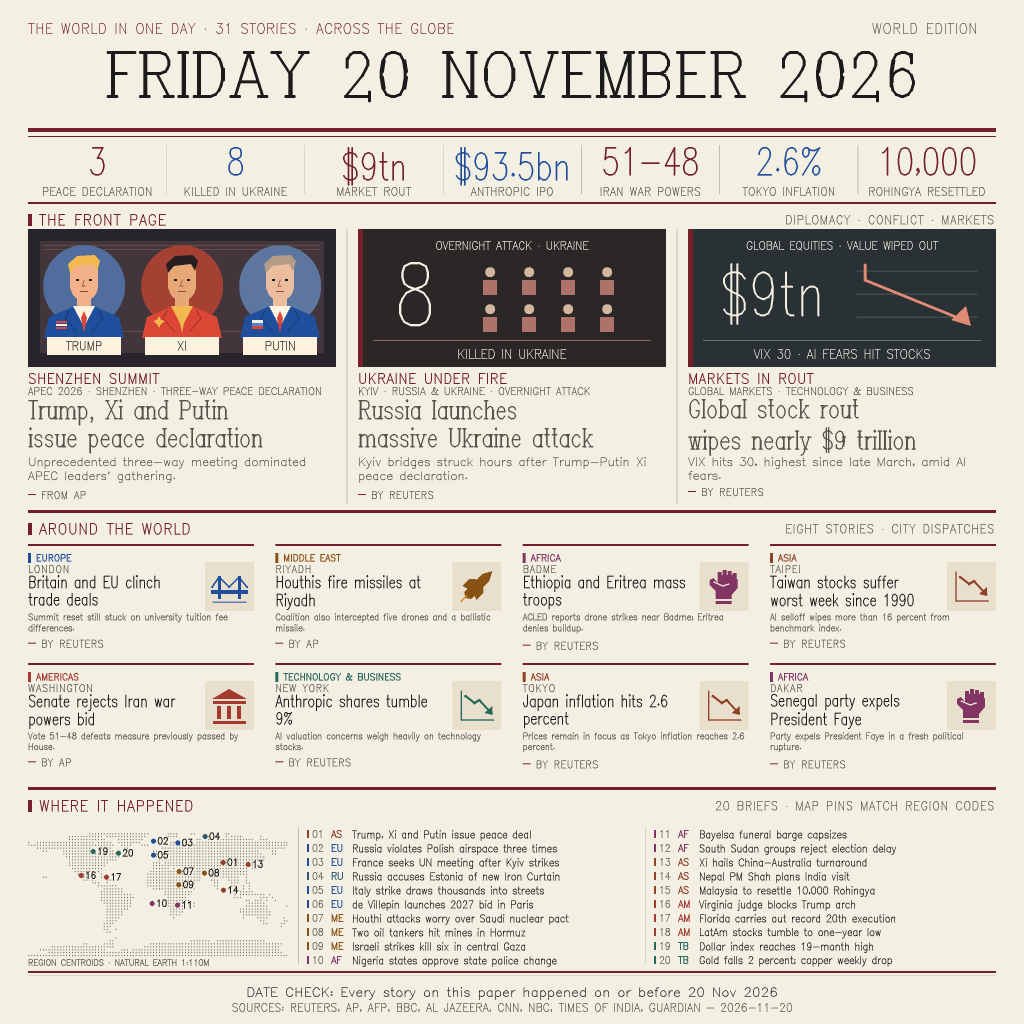
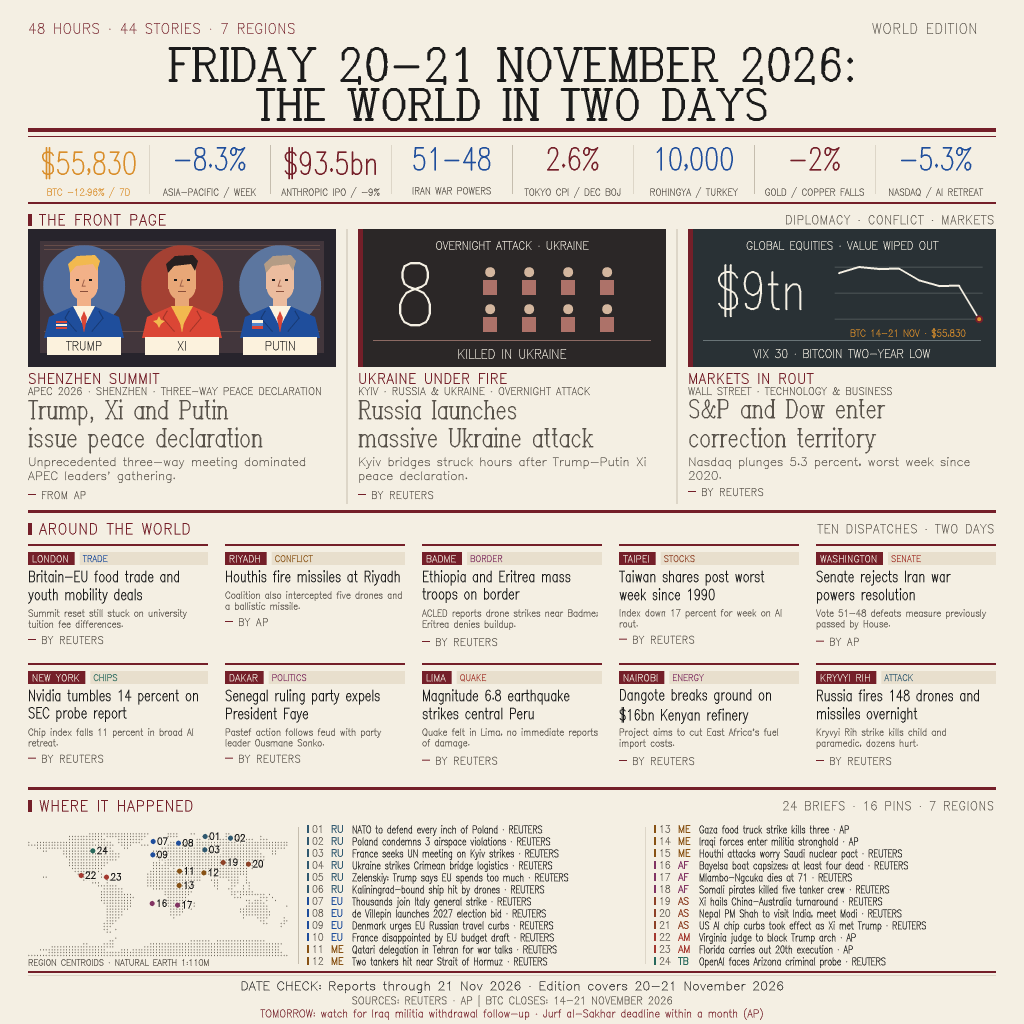
entry v5: 44 stories, two-day masthead, 10 city cards, 24-brief ticker, 16 pins, BTC 55,830 chart

diff --git a/main.py b/main.py
@@ -6,6 +6,7 @@ import json as reporting
 import math as geometry
 import os as filesystem
 import struct as binary
+import time as timing
 import zlib as deflate
 
 
@@ -330,40 +331,69 @@ DESKS = {
     'TECHNOLOGY & BUSINESS': ('TB', (39, 104, 91)),
 }
 
+# Editorial map: source IDs in news20_data_v2.json (all 69 accounted for).
+# HERO: 25 Shenzhen; 1 Ukraine casualties; 45 Wall Street correction.
+# HERO CHART: 38 global $9tn rout; 47 bitcoin two-year low (full BTC series).
+# CARDS: 7 London; 13 Riyadh; 20 Badme; 61 Taipei (updates 27);
+# 35 Washington; 46 New York; 21 Dakar; 66 Lima; 68 Nairobi; 51 Kryvyi Rih.
+# TICKER 01-24: 48,3,4,6,49,50,8,9,58,60,52,55,56,57,17,63,
+# 64,65,26,29,69,33,34,40. Each number also identifies its map pin.
+# STATS-ONLY reports: 28 Tokyo CPI; 30 Rohingya; 37 Anthropic IPO;
+# 39 Asia-Pacific weekly loss; 43 gold decline. Total distinct reports: 44.
+# OMITTED: 2 summit reaction; 5 Estonia; 10 Spain police; 11 bail;
+# 12 Danish plot (follow-up 58 used); 14 Iran deal (duplicate 67);
+# 15 Iraq (updated 57); 16 Gaza (newer 56 used); 18 Hormuz (newer 55);
+# 19 Bayelsa (updated 63); 22 state police; 23 Ebola; 24 election delay;
+# 27 Taiwan (updated 61); 31 caravan; 32 Guyana; 36 LatAm;
+# 41 GTA; 42 dollar; 44 data centers; 53 Hodeidah (covered by 13);
+# 54 F-16; 59 Paris investigation; 62 summit analysis; 67 Iran deal.
+# Source facts are supplied editorial data; headlines shortened for measured fit.
+BTC = (('2026-11-14', 64142.0), ('2026-11-15', 65226.99),
+       ('2026-11-16', 64869.97), ('2026-11-17', 64930.48),
+       ('2026-11-18', 62824.57), ('2026-11-19', 61773.0),
+       ('2026-11-20', 61879.53), ('2026-11-21', 55830.0))
+EXTRA_REPORTS = (28, 30, 37, 38, 39, 43, 47)
+
 # Records are field-delimited editorial copy, independent of layout commands.
 LEADS = '''SHENZHEN SUMMIT|APEC 2026 · SHENZHEN · THREE-WAY PEACE DECLARATION|Trump, Xi and Putin/issue peace declaration|Unprecedented three-way meeting dominated APEC leaders' gathering.|FROM AP
 UKRAINE UNDER FIRE|KYIV · RUSSIA & UKRAINE · OVERNIGHT ATTACK|Russia launches/massive Ukraine attack|Kyiv bridges struck hours after Trump-Putin Xi peace declaration.|BY REUTERS
-MARKETS IN ROUT|GLOBAL MARKETS · TECHNOLOGY & BUSINESS|Global stock rout/wipes nearly $9 trillion|VIX hits 30, highest since late March, amid AI fears.|BY REUTERS'''
+MARKETS IN ROUT|WALL STREET · TECHNOLOGY & BUSINESS|S&P and Dow enter/correction territory|Nasdaq plunges 5.3 percent, worst week since 2020.|BY REUTERS'''
 
-CITY_COPY = '''EUROPE|LONDON|bridge|Britain and EU clinch trade deals|Summit reset still stuck on university tuition fee differences.|BY REUTERS
-MIDDLE EAST|RIYADH|missile|Houthis fire missiles at Riyadh|Coalition also intercepted five drones and a ballistic missile.|BY AP
-AFRICA|BADME|fist|Ethiopia and Eritrea mass troops|ACLED reports drone strikes near Badme; Eritrea denies buildup.|BY REUTERS
-ASIA|TAIPEI|chart|Taiwan stocks suffer worst week since 1990|AI selloff wipes more than 16 percent from benchmark index.|BY REUTERS
-AMERICAS|WASHINGTON|court|Senate rejects Iran war powers bid|Vote 51-48 defeats measure previously passed by House.|BY AP
-TECHNOLOGY & BUSINESS|NEW YORK|chart|Anthropic shares tumble 9%|AI valuation concerns weigh heavily on technology stocks.|BY REUTERS
-ASIA|TOKYO|chart|Japan inflation hits 2.6 percent|Prices remain in focus as Tokyo inflation reaches 2.6 percent.|BY REUTERS
-AFRICA|DAKAR|fist|Senegal party expels President Faye|Party expels President Faye in a fresh political rupture.|BY REUTERS'''
+CITY_COPY = '''EUROPE|LONDON|TRADE|Britain-EU food trade and youth mobility deals|Summit reset still stuck on university tuition fee differences.|BY REUTERS
+MIDDLE EAST|RIYADH|CONFLICT|Houthis fire missiles at Riyadh|Coalition also intercepted five drones and a ballistic missile.|BY AP
+AFRICA|BADME|BORDER|Ethiopia and Eritrea mass troops on border|ACLED reports drone strikes near Badme; Eritrea denies buildup.|BY REUTERS
+ASIA|TAIPEI|STOCKS|Taiwan shares post worst week since 1990|Index down 17 percent for week on AI rout.|BY REUTERS
+AMERICAS|WASHINGTON|SENATE|Senate rejects Iran war powers resolution|Vote 51-48 defeats measure previously passed by House.|BY AP
+TECHNOLOGY & BUSINESS|NEW YORK|CHIPS|Nvidia tumbles 14 percent on SEC probe report|Chip index falls 11 percent in broad AI retreat.|BY REUTERS
+AFRICA|DAKAR|POLITICS|Senegal ruling party expels President Faye|Pastef action follows feud with party leader Ousmane Sonko.|BY REUTERS
+AMERICAS|LIMA|QUAKE|Magnitude 6.8 earthquake strikes central Peru|Quake felt in Lima, no immediate reports of damage.|BY REUTERS
+AFRICA|NAIROBI|ENERGY|Dangote breaks ground on $16bn Kenyan refinery|Project aims to cut East Africa's fuel import costs.|BY REUTERS
+RUSSIA & UKRAINE|KRYVYI RIH|ATTACK|Russia fires 148 drones and missiles overnight|Kryvyi Rih strike kills child and paramedic, dozens hurt.|BY REUTERS'''
 
-BRIEF_COPY = '''ASIA|Trump, Xi and Putin issue peace deal
-EUROPE|Russia violates Polish airspace three times
-EUROPE|France seeks UN meeting after Kyiv strikes
-RUSSIA & UKRAINE|Russia accuses Estonia of new Iron Curtain
-EUROPE|Italy strike draws thousands into streets
-EUROPE|de Villepin launches 2027 bid in Paris
-MIDDLE EAST|Houthi attacks worry over Saudi nuclear pact
-MIDDLE EAST|Two oil tankers hit mines in Hormuz
-MIDDLE EAST|Israeli strikes kill six in central Gaza
-AFRICA|Nigeria states approve state police change
-AFRICA|Bayelsa funeral barge capsizes
-AFRICA|South Sudan groups reject election delay
-ASIA|Xi hails China-Australia turnaround
-ASIA|Nepal PM Shah plans India visit
-ASIA|Malaysia to resettle 10,000 Rohingya
-AMERICAS|Virginia judge blocks Trump arch
-AMERICAS|Florida carries out record 20th execution
-AMERICAS|LatAm stocks tumble to one-year low
-TECHNOLOGY & BUSINESS|Dollar index reaches 19-month high
-TECHNOLOGY & BUSINESS|Gold falls 2 percent; copper weekly drop'''
+BRIEF_COPY = '''RUSSIA & UKRAINE|NATO to defend every inch of Poland|REUTERS
+RUSSIA & UKRAINE|Poland condemns 3 airspace violations|REUTERS
+RUSSIA & UKRAINE|France seeks UN meeting on Kyiv strikes|REUTERS
+RUSSIA & UKRAINE|Ukraine strikes Crimean bridge logistics|REUTERS
+RUSSIA & UKRAINE|Zelenskiy: Trump says EU spends too much|REUTERS
+RUSSIA & UKRAINE|Kaliningrad-bound ship hit by drones|REUTERS
+EUROPE|Thousands join Italy general strike|REUTERS
+EUROPE|de Villepin launches 2027 election bid|REUTERS
+EUROPE|Denmark urges EU Russian travel curbs|REUTERS
+EUROPE|France disappointed by EU budget draft|REUTERS
+MIDDLE EAST|Qatari delegation in Tehran for war talks|REUTERS
+MIDDLE EAST|Two tankers hit near Strait of Hormuz|REUTERS
+MIDDLE EAST|Gaza food truck strike kills three|AP
+MIDDLE EAST|Iraqi forces enter militia stronghold|AP
+MIDDLE EAST|Houthi attacks worry Saudi nuclear pact|REUTERS
+AFRICA|Bayelsa boat capsizes; at least four dead|REUTERS
+AFRICA|Mlambo-Ngcuka dies at 71|REUTERS
+AFRICA|Somali pirates killed five tanker crew|REUTERS
+ASIA|Xi hails China-Australia turnaround|REUTERS
+ASIA|Nepal PM Shah to visit India, meet Modi|REUTERS
+ASIA|US AI chip curbs took effect as Xi met Trump|REUTERS
+AMERICAS|Virginia judge to block Trump arch|AP
+AMERICAS|Florida carries out 20th execution|AP
+TECHNOLOGY & BUSINESS|OpenAI faces Arizona criminal probe|REUTERS'''
 
 
 def records(copy):
@@ -542,13 +572,19 @@ def equities_program(board):
     board.draw(('r', 0, 0, board.width, board.height, (41, 49, 53)),
                ('r', 0, 0, 5, board.height, 'red'),
                ('t', 'GLOBAL EQUITIES · VALUE WIPED OUT', 12, 12, board.width - 24, 8, 'paper'),
-               ('t', '$9tn', 12, 34, 144, 43, 'paper', dict(face='narrow', thickness=6)))
-    board.draw(*(('l', [(169, scan), (289, scan)], (78, 86, 88), 2)
-                 for scan in [42, 65, 88]))
-    board.draw(('l', [(177, 36), (177, 51), (278, 92)], (225, 138, 118), 6),
-               ('p', [(263, 91), (283, 97), (278, 77)], (225, 138, 118)),
+               ('t', '$9tn', 10, 35, 125, 37, 'paper', dict(face='narrow', thickness=6)))
+    values = [close for date, close in BTC]
+    low, high = min(values), max(values)
+    points = [(151 + i * 20, 38 + (high - value) / (high - low) * 52)
+              for i, value in enumerate(values)]
+    board.draw(*(('l', [(147, scan), (294, scan)], (78, 86, 88), 2)
+                 for scan in [38, 64, 90]))
+    board.draw(('l', points, 'paper', 4),
+               ('d', *points[values.index(low)], 4, 'red'),
+               ('d', *points[-1], 2, 'amber'),
+               ('t', 'BTC 14-21 NOV · $55,830', 140, 99, 160, 6.6, 'amber'),
                ('r', 15, 111, board.width - 30, 1, (105, 116, 119)),
-               ('t', 'VIX 30 · AI FEARS HIT STOCKS', 15, 120, board.width - 30, 9, 'paper'))
+               ('t', 'VIX 30 · BITCOIN TWO-YEAR LOW', 15, 120, board.width - 30, 8.3, 'paper'))
 
 
 def pictogram(board, subject, shade):
@@ -606,30 +642,35 @@ class Newspaper:
 
     def nameplate(self):
         t, s = self.type, self.scene
-        story_total = len(records(LEADS)) + len(records(CITY_COPY)) + len(records(BRIEF_COPY))
-        banner = f'THE WORLD IN ONE DAY · {story_total} STORIES · ACROSS THE GLOBE'
+        story_total = len(records(LEADS)) + len(records(CITY_COPY)) + len(records(BRIEF_COPY)) + len(EXTRA_REPORTS)
+        banner = f'48 HOURS · {story_total} STORIES · 7 REGIONS'
         t.put(banner, MARGIN, 23, 783, 10, 'red', spacing=.7)
         t.put('WORLD EDITION', 872, 23, 124, 10, spacing=.7)
-        t.put('FRIDAY 20 NOVEMBER 2026', MARGIN, 51, LIVE_WIDTH, 44, 'ink',
+        t.put('FRIDAY 20-21 NOVEMBER 2026:', MARGIN, 47, LIVE_WIDTH, 32, 'ink',
+              thickness=9, face='mast', spacing=1, align='center')
+        t.put('THE WORLD IN TWO DAYS', MARGIN, 88, LIVE_WIDTH, 30, 'ink',
               thickness=9, face='mast', spacing=1.5, align='center')
         for top, height in [(128, 4), (136, 1)]:
             s.box(MARGIN, top, LIVE_WIDTH, height, 'red')
-        metrics = records('''3|PEACE DECLARATION
-8|KILLED IN UKRAINE
-$9tn|MARKET ROUT
-$93.5bn|ANTHROPIC IPO
+        delta = (BTC[-1][1] / BTC[0][1] - 1) * 100
+        metrics = records(f'''$55,830|BTC {delta:+.2f}% / 7D
+-8.3%|ASIA-PACIFIC / WEEK
+$93.5bn|ANTHROPIC IPO / -9%
 51-48|IRAN WAR POWERS
-2.6%|TOKYO INFLATION
-10,000|ROHINGYA RESETTLED''')
+2.6%|TOKYO CPI / DEC BOJ
+10,000|ROHINGYA / TURKEY
+-2%|GOLD / COPPER FALLS
+-5.3%|NASDAQ / AI RETREAT''')
         cell_width = LIVE_WIDTH / len(metrics)
         for position, (figure, caption) in enumerate(metrics):
             left = MARGIN + position * cell_width
             if position != 0:
                 s.box(left, 145, .5, 49, 'rule')
-            t.put(figure, left + 4, 147, cell_width - 8, 27,
-                  'blue' if position % 2 else 'red', thickness=5,
+            t.put(figure, left + 4, 147, cell_width - 8, 22,
+                  'amber' if position == 0 else ('blue' if position % 2 else 'red'), thickness=5,
                   face='narrow', spacing=0, align='center')
-            t.put(caption, left + 4, 187, cell_width - 8, 8, spacing=.4, align='center')
+            t.put(caption, left + 4, 187, cell_width - 8, 6.5,
+                  'amber' if position == 0 else 'grey', spacing=.12, align='center')
         s.box(MARGIN, 202, LIVE_WIDTH, 2, 'red')
 
     def front_page(self):
@@ -661,32 +702,36 @@ $93.5bn|ANTHROPIC IPO
 
     def city_reports(self):
         self.scene.box(MARGIN, 510, LIVE_WIDTH, 3, 'red')
-        self.section('AROUND THE WORLD', 'EIGHT STORIES · CITY DISPATCHES', 523)
+        self.section('AROUND THE WORLD', 'TEN DISPATCHES · TWO DAYS', 523)
         for ordinal, fields in enumerate(records(CITY_COPY)):
-            desk, city, symbol, title, description, source = fields
-            row, column = divmod(ordinal, 4)
-            left = device(MARGIN + column * (226 + 64 / 3)) / ZOOM
+            desk, city, topic, title, description, source = fields
+            row, column = divmod(ordinal, 5)
+            width = 180
+            left = MARGIN + column * 197
             top = 544 + row * 119
             shade = DESKS[desk][1]
             first = len(self.scene.copy_bounds)
-            self.scene.box(left, top, 226, 2, 'red')
-            self.scene.box(left, top + 9, 3, 10, shade)
-            self.type.put(desk, left + 8, top + 10, 218, 6.7,
-                          shade, thickness=3, spacing=.25)
-            self.type.put(city, left, top + 21, 173, 7.2, spacing=.8)
-            pictogram(Artboard(self, (left + 177, top + 18), (49, 49)), symbol, shade)
-            headline_rows = self.type.paragraphs(title, 11.5, 164, 'narrow')
+            self.scene.box(left, top, width, 2, 'red')
+            city_width = self.type.extent(city, 6.8, 'tag', .3) + 10
+            self.scene.box(left, top + 8, city_width, 13, 'red')
+            self.type.put(city, left + 4, top + 11, city_width - 8, 6.8,
+                          'paper', thickness=2, spacing=.3)
+            self.scene.box(left + city_width + 5, top + 8,
+                           width - city_width - 5, 13, (232, 223, 205))
+            self.type.put(topic, left + city_width + 8, top + 11,
+                          width - city_width - 11, 6.2, shade, spacing=.15)
+            headline_rows = self.type.paragraphs(title, 10.5, width - 2, 'narrow')
             assert 1 <= len(headline_rows) <= 3
             for line_number, words in enumerate(headline_rows):
-                self.type.put(words, left, top + 31 + line_number * 18, 167, 11.5,
+                self.type.put(words, left, top + 26 + line_number * 18, width, 10.5,
                               'ink', thickness=3, face='narrow', spacing=0)
-            description_top = top + 31 + len(headline_rows) * 18 + 2
-            for line_number, words in enumerate(self.type.paragraphs(description, 6.3, 224, 'tag')):
+            description_top = top + 26 + len(headline_rows) * 18 + 3
+            for line_number, words in enumerate(self.type.paragraphs(description, 6.5, width - 2, 'tag')):
                 self.type.put(words, left, description_top + line_number * 11,
-                              226, 6.3, spacing=0)
-            self.type.credit(source, left, 226, top + 118)
+                              width, 6.5, spacing=0)
+            self.type.credit(source, left, width, top + 118)
             for words, (west, north, east, south) in self.scene.copy_bounds[first:]:
-                assert left <= west < east <= left + 226, words
+                assert left <= west < east <= left + width, words
                 assert top <= north < south <= top + 118, words
             self.scene.stories.append(title)
 
@@ -702,7 +747,7 @@ $93.5bn|ANTHROPIC IPO
                     self.scene.circle(left + (easting + .5) * spacing,
                                       top + (northing + .5) * spacing, .55, 'land')
         clusters = {}
-        for ordinal, (desk, headline) in enumerate(records(BRIEF_COPY), start=1):
+        for ordinal, (desk, headline, outlet) in enumerate(records(BRIEF_COPY), start=1):
             clusters.setdefault(desk, []).append(ordinal)
         anchors = {
             'ASIA': (195, 35, 220, 63), 'EUROPE': (125, 14, 150, 28),
@@ -716,6 +761,7 @@ $93.5bn|ANTHROPIC IPO
                 if rank < len(numbers):
                     ordered.append((desk, numbers[rank], rank))
         occupied = []
+        pinned_regions = set()
         for desk, ordinal, rank in ordered[:16]:
             west, north, east, south = anchors[desk]
             column, row = rank % 2, rank // 2
@@ -725,6 +771,7 @@ $93.5bn|ANTHROPIC IPO
             py = top + north + row * (south - north) + column * 2 + vertical_jitter
             assert all(geometry.hypot(px - u, py - v) >= 12 for u, v in occupied)
             occupied.append((px, py))
+            pinned_regions.add(desk)
             self.scene.circle(px, py, 2.5, DESKS[desk][1])
             digits = format(ordinal, '02d')
             self.type.put(digits, px + 4 + 1, py - 4 + 1, 15, 6.7,
@@ -733,37 +780,39 @@ $93.5bn|ANTHROPIC IPO
             self.type.put(digits, px + 4, py - 4, 15, 6.7,
                           'ink', thickness=3, spacing=0)
         self.scene.pin_count = len(occupied)
+        assert pinned_regions == set(DESKS)
 
     def briefs(self):
         self.scene.box(MARGIN, 787, LIVE_WIDTH, 3, 'red')
-        self.section('WHERE IT HAPPENED', '20 BRIEFS · MAP PINS MATCH REGION CODES', 800)
+        self.section('WHERE IT HAPPENED', '24 BRIEFS · 16 PINS · 7 REGIONS', 800)
         self.locator(MARGIN, 827)
         self.type.put('REGION CENTROIDS · NATURAL EARTH 1:110M', MARGIN, 959,
                       260, 6, spacing=.15)
         news = records(BRIEF_COPY)
         for column, left in enumerate([307, 654]):
             self.scene.box(left - 9, 827, .5, 137, 'rule')
-            for row in range(10):
-                ordinal = column * 10 + row
-                desk, headline = news[ordinal]
+            for row in range(12):
+                ordinal = column * 12 + row
+                desk, headline, outlet = news[ordinal]
                 code, shade = DESKS[desk]
-                top = 830 + row * 14
+                top = 825 + row * 12
                 self.scene.box(left, top, 2, 8, shade)
                 self.type.put(format(ordinal + 1, '02d'), left + 5, top, 16, 7, spacing=0)
                 self.type.put(code, left + 24, top, 17, 7, shade, thickness=3, spacing=0)
-                self.type.put(headline, left + 45, top, 292 + 5 * column, 7.3,
-                              'ink', spacing=0)
+                self.type.put(headline + ' · ' + outlet, left + 45, top,
+                              292 + 5 * column, 7.2, 'ink', face='narrow', spacing=0)
                 self.scene.stories.append(headline)
 
     def colophon(self):
         self.scene.box(MARGIN, 971, LIVE_WIDTH, 2, 'red')
         self.scene.box(MARGIN, 975, LIVE_WIDTH, .5, 'rule')
-        checks = 'DATE CHECK: Every story on this paper happened on or before 20 Nov 2026'
-        sources = ('SOURCES: REUTERS, AP, AFP, BBC, AL JAZEERA, CNN, NBC, '
-                   'TIMES OF INDIA, GUARDIAN — 2026-11-20')
-        self.type.put(checks, MARGIN, 987, LIVE_WIDTH, 8.8, 'ink', face='body',
+        checks = 'DATE CHECK: Reports through 21 Nov 2026 · Edition covers 20-21 November 2026'
+        sources = 'SOURCES: REUTERS · AP | BTC CLOSES: 14-21 NOVEMBER 2026'
+        self.type.put(checks, MARGIN, 981, LIVE_WIDTH, 8.2, 'ink', face='body',
                       spacing=.22, align='center')
-        self.type.put(sources, MARGIN, 1003, LIVE_WIDTH, 8, spacing=.32, align='center')
+        self.type.put(sources, MARGIN, 995, LIVE_WIDTH, 7.2, spacing=.32, align='center')
+        self.type.put('TOMORROW: watch for Iraq militia withdrawal follow-up · Jurf al-Sakhar deadline within a month (AP)',
+                      MARGIN, 1008, LIVE_WIDTH, 7.3, 'red', spacing=.15, align='center')
 
     def finish(self):
         self.nameplate()
@@ -771,10 +820,13 @@ $93.5bn|ANTHROPIC IPO
         self.city_reports()
         self.briefs()
         self.colophon()
-        assert len(self.scene.stories) == len(set(self.scene.stories)) == 31
+        self.scene.stories.extend(f'SOURCE REPORT {identity}' for identity in EXTRA_REPORTS)
+        assert len(self.scene.stories) == len(set(self.scene.stories)) == 44
+        assert len(records(CITY_COPY)) == 10 and len(records(BRIEF_COPY)) == 24
         assert self.scene.pin_count == 16
-        assert len(self.scene.copy_bounds) == 188
         for index, (words, bounds) in enumerate(self.scene.copy_bounds):
+            assert 0 <= bounds[0] < bounds[2] <= RESOLUTION, (words, bounds)
+            assert 0 <= bounds[1] < bounds[3] <= RESOLUTION, (words, bounds)
             for other_words, other_bounds in self.scene.copy_bounds[index + 1:]:
                 shared_width = min(bounds[2], other_bounds[2]) - max(bounds[0], other_bounds[0])
                 shared_height = min(bounds[3], other_bounds[3]) - max(bounds[1], other_bounds[1])
@@ -787,6 +839,7 @@ def build_edition():
 
 
 def run_press():
+    started = timing.perf_counter()
     edition = build_edition()
     machine = RasterPress()
     machine.paint(edition.operations)
@@ -803,6 +856,7 @@ def run_press():
           sha256=digests.sha256(image_bytes).hexdigest(), lines=authored_lines,
           stories=len(edition.stories), map_pins=edition.pin_count,
           cards=len(records(CITY_COPY)), ticker_items=len(records(BRIEF_COPY)),
+          heroes=len(records(LEADS)), runtime_seconds=round(timing.perf_counter() - started, 3),
           text_bounds_checked=len(edition.copy_bounds), width=RESOLUTION,
           height=RESOLUTION), sort_keys=True))
 
